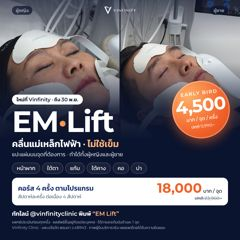
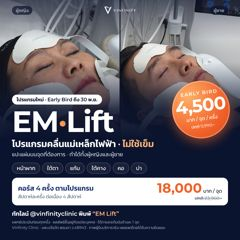
EM Lift: add โปรแกรม wording to LINE card image and text (MOPH ad rule)
Claude-Session: https://claude.ai/code/session_01CzyTvTKTHkTjRhKMjzZ1T5

Changed region(s): [[0.0292, 0.5542, 0.6417, 0.6417], [0.0583, 0.3792, 0.4375, 0.4375]]

diff --git a/line-app/lib/campaignMedia.ts b/line-app/lib/campaignMedia.ts
@@ -57,8 +57,8 @@ const E11_MSG = `🎉 11.11 สวยครบ 2 จุด วันนี้ว
 แพทย์เป็นผู้เลือก 2 จุดตามการประเมิน · ผลลัพธ์ขึ้นอยู่กับแต่ละบุคคล · ใช้ร่วมกับโปรอื่นไม่ได้
 👉 กดปุ่ม “กดรับสิทธิ์” ในการ์ดด้านล่างได้เลยค่ะ`;
 
-const EMLIFT_MSG = `✨ ใหม่ที่ Vinfinity · EM Lift
-เทคโนโลยีคลื่นแม่เหล็กไฟฟ้า ไม่ใช้เข็ม ทำได้ทั้งผู้หญิงและผู้ชาย
+const EMLIFT_MSG = `✨ โปรแกรมใหม่ที่ Vinfinity · โปรแกรม EM Lift
+โปรแกรมคลื่นแม่เหล็กไฟฟ้า ไม่ใช้เข็ม ทำได้ทั้งผู้หญิงและผู้ชาย
 
 💙 Early Bird 4,500.- ต่อจุด ต่อครั้ง (ปกติ 5,990.-) ถึง 30 พ.ย. นี้
 เลือกจุดได้: หน้าผาก · ใต้ตา · แก้ม · ใต้คาง · คอ · บ่า

diff --git a/line-app/lib/promos.ts b/line-app/lib/promos.ts
@@ -80,8 +80,8 @@ export const PROMOS: Promo[] = [{
   trigger: /em\s*-?\s*lift|อีเอ็ม\s*ลิ[ฟฟ]ท์?|early\s*bird|เออร์ลี่|electromagnetic|แม่เหล็ก/i,
   image: "/campaign/emlift-2611/1-1x1.jpg",
   preview: "/campaign/emlift-2611/1-1x1-p.jpg",
-  text: `✨ ใหม่ที่ Vinfinity · EM Lift
-เทคโนโลยีคลื่นแม่เหล็กไฟฟ้า ไม่ใช้เข็ม ทำได้ทั้งผู้หญิงและผู้ชาย
+  text: `✨ โปรแกรมใหม่ที่ Vinfinity · โปรแกรม EM Lift
+โปรแกรมคลื่นแม่เหล็กไฟฟ้า ไม่ใช้เข็ม ทำได้ทั้งผู้หญิงและผู้ชาย
 
 💙 Early Bird 4,500.- ต่อจุด ต่อครั้ง (ปกติ 5,990.-) ถึง 30 พ.ย. นี้
 เลือกจุดได้: หน้าผาก · ใต้ตา · แก้ม · ใต้คาง · คอ · บ่า

diff --git a/ops/agents/marketing.md b/ops/agents/marketing.md
@@ -953,3 +953,7 @@ Planning a filler top-up before the New Year? Read this first. The usual "6–12
 Hashtags: #ฟิลเลอร์ #ฟิลเลอร์อุดร #เติมฟิลเลอร์ #VinfinityClinic #TheFillerArchitect #คลินิกอุดร #อุดรธานี #DermalFiller #UdonThani
 Alt text: ไทม์ไลน์แสดงว่า MRI ยังพบฟิลเลอร์กลางหน้าอย่างน้อย 2 ปีและบางรายถึง 15 ปี พร้อมข้อความ "ฟิลเลอร์ที่ฉีดไว้ ยังอยู่ไหม" / Timeline showing MRI still finding mid-face filler for at least 2 years and in some people up to 15 years, with the text "Is your filler still there?".
 Graphic brief: 5 slides 1080×1350. Slide 1: real clinic photo (assets/img/treatment.jpg) with dark navy gradient (#0B142E → #1A326B), silver #EEF2F8 headline. Slide 2: article graphic assets/img/articles/filler-mri-longevity-timeline.jpg on navy, small caption "Master et al. 2024 · MRI 33 ราย". Slides 3–4: navy background, silver #D5DDEE text lists. Slide 5: doctor photo assets/img/dr-bas.jpg (not a galderma-* photo) + 3 lines + LINE chip. Small text footer credit on every slide: "Vinfinity Clinic · LINE @vinfinityclinic · ว.48943 · ผลลัพธ์ขึ้นอยู่กับแต่ละบุคคล". No white logo band, no filler brand names, no before/after, no price, no "ถาวร"/permanent wording.
+
+### 2026-11-24 (doctor) — ad wording rule
+- Thai MOPH (สบส.) guideline: services using drugs/devices must be written as "โปรแกรม…" (e.g. โปรแกรมฉีดฟิลเลอร์, โปรแกรม EM Lift) in every ad, broadcast, image and signage. Apply to all new drafts. The parking-side vinyl went up without it; a "โปรแกรม" patch strip was made (pending สสจ. check).
+- EM Lift card image + LINE text updated to say โปรแกรม.
